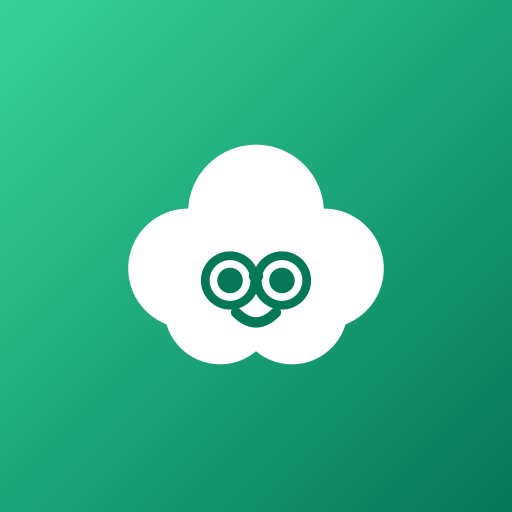
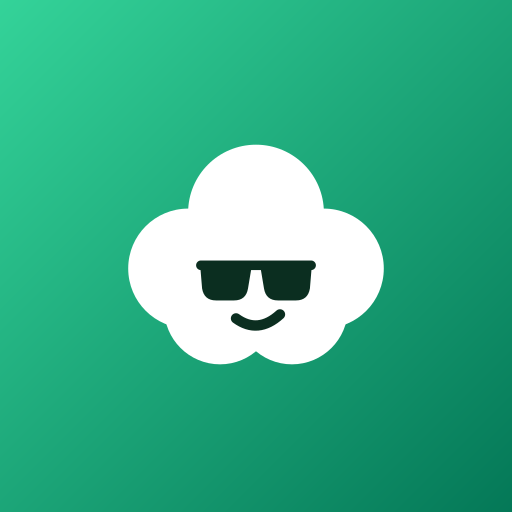
Brócoli con lentes de sol y sin mejillas rosas
Lentes negros tipo gafa de sol con brillo animado, sonrisa de lado y un
gesto de bajarse los lentes al saludar; el ícono de la app también los usa.

Claude-Session: https://claude.ai/code/session_01778MfouyxbgDrk4pFyrYCz

Changed region(s): [[0.375, 0.4688, 0.625, 0.6562]]

diff --git a/index.html b/index.html
@@ -4,7 +4,7 @@
 <meta charset="utf-8">
 <meta name="viewport" content="width=device-width,initial-scale=1,viewport-fit=cover">
 <meta name="theme-color" content="#f3f5f4">
-<meta name="nutri-version" content="24">
+<meta name="nutri-version" content="25">
 <link rel="manifest" href="manifest.json">
 <link rel="icon" href="icons/icon-192.png">
 <link rel="apple-touch-icon" href="icons/apple-touch-icon.png">
@@ -47,6 +47,7 @@ header{padding:22px 20px 10px;background:white;position:sticky;top:0;z-index:3;b
 .mascot-svg.mood-happy .ms-body{animation:msBounce 1.1s cubic-bezier(.3,.7,.4,1) infinite}
 .mascot-svg.mood-happy .ms-shadow{animation:msShadowBounce 1.1s cubic-bezier(.3,.7,.4,1) infinite}
 .mascot-svg.mood-happy .ms-eyes{opacity:0}.mascot-svg.mood-happy .ms-happy-eyes{opacity:1}
+.mascot-svg.mood-happy .ms-smile{opacity:0}.mascot-svg.mood-happy .ms-open{opacity:1}
 .mascot-svg.mood-happy .ms-blush{opacity:.6}
 /* celebra: salta, boca abierta y destellos */
 .mascot-svg.mood-celebrate .ms-body{animation:msJump .9s cubic-bezier(.3,.7,.4,1) infinite}
@@ -400,6 +401,10 @@ html[data-time="night"] .summaryline{border-color:var(--line)}
 html[data-time="night"] .nutri-toast{background:#eef5f1;color:#0c1a14}
 html[data-time="night"] .row-item.tap:active,html[data-time="night"] .meal-row:active{background:#1d2823}
 .mascot-svg .ms-glasses{transform-box:fill-box;transform-origin:50% 50%}
+.mascot-svg .ms-glint path{animation:msGlint 4.5s ease-in-out infinite}
+@keyframes msGlint{0%,70%{transform:translateX(-40px)}85%,100%{transform:translateX(60px)}}
+.mascot-svg.mood-wave .ms-glasses{animation:msCool 3.2s ease-in-out infinite}
+@keyframes msCool{0%,55%,80%,100%{transform:none}62%,74%{transform:translateY(7px) rotate(-6deg)}}
 .mascot-svg.mood-celebrate .ms-glasses,.mascot-svg.poked .ms-glasses{animation:msGlasses .9s ease-in-out infinite}
 @keyframes msGlasses{0%,100%{transform:translateY(0)}40%{transform:translateY(-3px)}}
 </style>
@@ -487,6 +492,8 @@ function mascotSVG(size = 64, mood = 'idle', extraClass = '') {
     <linearGradient id="${id}b" x1="30" y1="40" x2="170" y2="170" gradientUnits="userSpaceOnUse">
       <stop offset="0" stop-color="#6fd6a0"/><stop offset="1" stop-color="#23945c"/>
     </linearGradient>
+    <linearGradient id="${id}g" x1="0" y1="97" x2="0" y2="119" gradientUnits="userSpaceOnUse"><stop offset="0" stop-color="#2b3a34"/><stop offset="1" stop-color="#070a09"/></linearGradient>
+    <clipPath id="${id}c"><path d="M61 97 H97.5 Q99.5 97 99 100 L96.5 112 Q95 119 88 119 H72 Q65 119 63.5 112 L60.5 100 Q60 97 61 97Z M102.5 97 H139 Q140 97 139.5 100 L136.5 112 Q135 119 128 119 H112 Q105 119 103.5 112 L101 100 Q100.5 97 102.5 97Z"/></clipPath>
     <radialGradient id="${id}h" cx="84" cy="66" r="44" gradientUnits="userSpaceOnUse">
       <stop offset="0" stop-color="#fff" stop-opacity=".38"/><stop offset="1" stop-color="#fff" stop-opacity="0"/>
     </radialGradient>
@@ -503,9 +510,6 @@ function mascotSVG(size = 64, mood = 'idle', extraClass = '') {
       <rect x="60" y="92" width="80" height="60" rx="20"/>
     </g>
     <ellipse cx="84" cy="70" rx="44" ry="32" fill="url(#${id}h)"/>
-    <g class="ms-blush" fill="#ff8fa3" opacity=".35">
-      <ellipse cx="66" cy="124" rx="11" ry="6.5"/><ellipse cx="134" cy="124" rx="11" ry="6.5"/>
-    </g>
     <g class="ms-eyes">
       <g class="ms-eye"><ellipse cx="82" cy="108" rx="7" ry="9" fill="#10241a"/><circle cx="84.5" cy="104.5" r="2.6" fill="#fff"/></g>
       <g class="ms-eye"><ellipse cx="118" cy="108" rx="7" ry="9" fill="#10241a"/><circle cx="120.5" cy="104.5" r="2.6" fill="#fff"/></g>
@@ -515,15 +519,15 @@ function mascotSVG(size = 64, mood = 'idle', extraClass = '') {
     </g>
     <path class="ms-wink" d="M110 109 Q118 101 126 109" fill="none" stroke="#10241a" stroke-width="4.5" stroke-linecap="round"/>
     <g class="ms-glasses">
-      <circle cx="82" cy="107" r="15.5" fill="#fff" fill-opacity=".18" stroke="#10241a" stroke-width="4"/>
-      <circle cx="118" cy="107" r="15.5" fill="#fff" fill-opacity=".18" stroke="#10241a" stroke-width="4"/>
-      <path d="M96.5 104 Q100 100 103.5 104" fill="none" stroke="#10241a" stroke-width="4" stroke-linecap="round"/>
-      <path d="M66.8 103 L57 98 M133.2 103 L143 98" fill="none" stroke="#10241a" stroke-width="4" stroke-linecap="round"/>
-      <path d="M74 99 Q78 95 83 95" fill="none" stroke="#fff" stroke-opacity=".7" stroke-width="2.5" stroke-linecap="round"/>
-      <path d="M110 99 Q114 95 119 95" fill="none" stroke="#fff" stroke-opacity=".7" stroke-width="2.5" stroke-linecap="round"/>
+      <path d="M58 96 H142" stroke="#0b0f0d" stroke-width="6" stroke-linecap="round"/>
+      <path d="M61 97 H97.5 Q99.5 97 99 100 L96.5 112 Q95 119 88 119 H72 Q65 119 63.5 112 L60.5 100 Q60 97 61 97Z" fill="url(#${id}g)" stroke="#0b0f0d" stroke-width="2.5"/>
+      <path d="M102.5 97 H139 Q140 97 139.5 100 L136.5 112 Q135 119 128 119 H112 Q105 119 103.5 112 L101 100 Q100.5 97 102.5 97Z" fill="url(#${id}g)" stroke="#0b0f0d" stroke-width="2.5"/>
+      <g class="ms-glint" clip-path="url(#${id}c)"><path d="M60 125 L80 95 H88 L68 125Z M102 125 L122 95 H128 L108 125Z" fill="#fff" opacity=".35"/></g>
+      <path d="M67 102 L73 102" stroke="#fff" stroke-opacity=".5" stroke-width="2.2" stroke-linecap="round"/>
+      <path d="M108 102 L114 102" stroke="#fff" stroke-opacity=".5" stroke-width="2.2" stroke-linecap="round"/>
     </g>
-    <path class="ms-smile" d="M89 126 Q100 137 111 126" fill="none" stroke="#10241a" stroke-width="4" stroke-linecap="round"/>
-    <path class="ms-open" d="M88 125 Q100 144 112 125 Z" fill="#10241a"/>
+    <path class="ms-smile" d="M88 129 Q101 137 114 126" fill="none" stroke="#10241a" stroke-width="4" stroke-linecap="round"/>
+    <path class="ms-open" d="M86 127 Q100 146 115 125 Z" fill="#10241a"/><path class="ms-open" d="M91 128.5 H110" stroke="#fff" stroke-width="3" stroke-linecap="round"/>
   </g>
   <g class="ms-sparks" fill="#ffc53d">
     <path d="M30 40 l4 10 10 4 -10 4 -4 10 -4 -10 -10 -4 10 -4z"/>
@@ -550,9 +554,8 @@ function logoMarkSVG(size = 40) {
     <circle cx="50" cy="38" r="17"/><circle cx="33" cy="52" r="15"/><circle cx="67" cy="52" r="15"/>
     <circle cx="41" cy="62" r="14"/><circle cx="59" cy="62" r="14"/><rect x="34" y="46" width="32" height="26" rx="10"/>
   </g>
-  <g fill="#047857"><circle cx="43.5" cy="55" r="3.2"/><circle cx="56.5" cy="55" r="3.2"/></g>
-  <g fill="none" stroke="#047857" stroke-width="2.2" stroke-linecap="round"><circle cx="43.5" cy="55" r="6.2"/><circle cx="56.5" cy="55" r="6.2"/><path d="M49.3 54 Q50 53 50.7 54"/></g>
-  <path d="M45 63 Q50 68 55 63" fill="none" stroke="#047857" stroke-width="2.6" stroke-linecap="round"/>
+  <g fill="#0b2e20"><path d="M36 51 H49 L48 57 Q47.5 60 44.5 60 H40 Q37 60 36.5 57Z"/><path d="M51 51 H64 L63.5 57 Q63 60 60 60 H55.5 Q52.5 60 52 57Z"/><rect x="35" y="50" width="30" height="2.4" rx="1.2"/></g>
+  <path d="M45 64.5 Q50.5 68.5 56 63.5" fill="none" stroke="#0b2e20" stroke-width="2.6" stroke-linecap="round"/>
 </svg>`;
 }
 function logoHTML(size = 36) {

diff --git a/sw.js b/sw.js
@@ -5,7 +5,7 @@
 // Los archivos estáticos (íconos, manifest) sí se cachean para que la app abra rápido
 // y funcione aunque no haya internet en ese instante (aunque sin poder sincronizar datos).
 
-const CACHE_NAME = 'nutri-static-v3';
+const CACHE_NAME = 'nutri-static-v4';
 const STATIC_ASSETS = [
   './manifest.json',
   './icons/icon-192.png',
